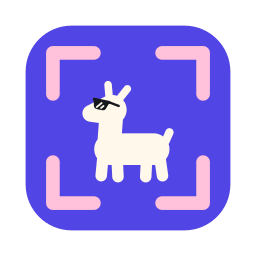
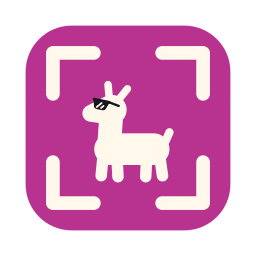
Sync website from Forgejo
Mirrored from 5ef5cc529b7d166672b5be29c3a5ff7c8f926042.

diff --git a/webfront/style.css b/webfront/style.css
@@ -1,6 +1,6 @@
 /* ShotLama website. Two materials, as in the app: veil (graphite glass,
    always dark) for everything that sits over a screen, and Meridian islands
-   on a graphite ground for the rest. One iris accent marks intent; the pink
+   on a graphite ground for the rest. One magenta accent marks intent; the ivory
    crop corners come from the app icon. Colours are the ShotLama brand of
    meridian_ui and docs/design-system/tokens. The ivory Lama only sits on the
    brand ground (stage, privacy island, download island). */
@@ -30,21 +30,21 @@
   --ink-faint: #8F8FA0;
   --line: #DFDFE7;
   --line-strong: #C9C9D4;
-  --accent: #5145E5;
-  --accent-hover: #4338D0;
+  --accent: #B8338F;
+  --accent-hover: #A02B7C;
   --on-accent: #FFFFFF;
-  --accent-soft: #ECEBFF;
-  --accent-ink: #4A3ED6;
-  --focus: #5145E5;
+  --accent-soft: #FBE4F0;
+  --accent-ink: #A72A82;
+  --focus: #B8338F;
   --success: #1F7A45;
-  --brand: #16133A;
-  --brand-deep: #0C0A24;
+  --brand: #4D253F;
+  --brand-deep: #180A13;
   --brand-ink: #F4F4F8;
-  --brand-muted: #B9B6DA;
-  --brand-accent: #8F88FF;
-  --brand-accent-ink: #B0ABFF;
+  --brand-muted: #E3C3D6;
+  --brand-accent: #E977BB;
+  --brand-accent-ink: #EFA7D2;
   --brand-line: rgba(244, 244, 248, 0.14);
-  --prop: #FFC2DA;
+  --prop: #FFF8EB;
   --veil-fill: rgba(22, 22, 30, 0.84);
   --veil-fill-opaque: #1C1C24;
   --veil-edge: rgba(255, 255, 255, 0.12);
@@ -86,14 +86,14 @@
     --ink-faint: #666679;
     --line: #262630;
     --line-strong: #34343F;
-    --accent: #8F88FF;
-    --accent-hover: #A49EFF;
-    --on-accent: #0C0A24;
-    --accent-soft: #25224F;
-    --accent-ink: #B0ABFF;
-    --focus: #B0ABFF;
+    --accent: #E977BB;
+    --accent-hover: #EC8BC5;
+    --on-accent: #180A13;
+    --accent-soft: #412235;
+    --accent-ink: #EFA7D2;
+    --focus: #EFA7D2;
     --success: #5CD08A;
-    --brand: #1B1748;
+    --brand: #562D47;
     --shadow-pane: 0 0 0 1px rgba(255, 255, 255, 0.05), 0 1px 2px rgba(0, 0, 0, 0.4);
     --shadow-float: 0 0 0 1px rgba(255, 255, 255, 0.07), 0 20px 48px -16px rgba(0, 0, 0, 0.75);
   }
@@ -154,8 +154,8 @@ code, .mono, pre, kbd { font-family: var(--font-mono); font-variant-numeric: tab
   transition: background-color 160ms var(--ease), transform 160ms var(--ease), box-shadow 160ms var(--ease);
 }
 .button:active { transform: translateY(1px) scale(0.99); }
-.button.primary { background: var(--brand-accent); color: var(--brand-deep); box-shadow: 0 10px 30px -10px rgba(143, 136, 255, 0.7); }
-.button.primary:hover { background: #A49EFF; }
+.button.primary { background: var(--brand-accent); color: var(--brand-deep); box-shadow: 0 10px 30px -10px rgba(233, 119, 187, 0.7); }
+.button.primary:hover { background: #EC8BC5; }
 .button.ghost { color: var(--brand-ink); box-shadow: inset 0 0 0 1px var(--brand-line); }
 .button.ghost:hover { background: rgba(255, 255, 255, 0.07); }
 .button.veil {
@@ -186,8 +186,8 @@ code, .mono, pre, kbd { font-family: var(--font-mono); font-variant-numeric: tab
   color: var(--ink-muted); font: 500 12.5px/1 var(--font-mono); text-decoration: none;
   box-shadow: inset 0 0 0 1px var(--line);
 }
-.pulse { width: 7px; height: 7px; border-radius: 50%; background: var(--accent); box-shadow: 0 0 0 0 rgba(81, 69, 229, 0.5); animation: pulse 2.4s var(--ease) infinite; }
-@keyframes pulse { 70% { box-shadow: 0 0 0 7px rgba(81, 69, 229, 0); } 100% { box-shadow: 0 0 0 0 rgba(81, 69, 229, 0); } }
+.pulse { width: 7px; height: 7px; border-radius: 50%; background: var(--accent); box-shadow: 0 0 0 0 rgba(184, 51, 143, 0.5); animation: pulse 2.4s var(--ease) infinite; }
+@keyframes pulse { 70% { box-shadow: 0 0 0 7px rgba(184, 51, 143, 0); } 100% { box-shadow: 0 0 0 0 rgba(184, 51, 143, 0); } }
 
 /* Hero stage: the brand ground, lit like the feature graphic. */
 .hero { padding: 20px max(16px, calc((100% - 1320px) / 2)) 0; }
@@ -198,7 +198,7 @@ code, .mono, pre, kbd { font-family: var(--font-mono); font-variant-numeric: tab
   background: var(--brand-deep);
   color: var(--brand-ink);
   touch-action: pan-y;
-  box-shadow: 0 30px 80px -40px rgba(22, 19, 58, 0.8);
+  box-shadow: 0 30px 80px -40px rgba(24, 10, 19, 0.8);
 }
 .stage.is-capturing { cursor: crosshair; user-select: none; -webkit-user-select: none; }
 .stage-content {
@@ -206,15 +206,15 @@ code, .mono, pre, kbd { font-family: var(--font-mono); font-variant-numeric: tab
   display: grid; grid-template-columns: minmax(0, 1.05fr) minmax(0, 1fr); align-items: center; gap: 24px;
   padding: 72px clamp(28px, 6vw, 88px) 104px;
   background:
-    radial-gradient(ellipse 60% 70% at 72% 42%, rgba(143, 136, 255, 0.42), transparent 70%),
-    radial-gradient(ellipse 45% 50% at 96% 108%, rgba(255, 194, 218, 0.20), transparent 70%),
-    radial-gradient(ellipse 50% 60% at 0% 0%, rgba(81, 69, 229, 0.30), transparent 70%),
-    linear-gradient(135deg, #1C1850 0%, var(--brand) 45%, var(--brand-deep) 100%);
+    radial-gradient(ellipse 60% 70% at 72% 42%, rgba(233, 119, 187, 0.42), transparent 70%),
+    radial-gradient(ellipse 45% 50% at 96% 108%, rgba(255, 248, 235, 0.20), transparent 70%),
+    radial-gradient(ellipse 50% 60% at 0% 0%, rgba(184, 51, 143, 0.30), transparent 70%),
+    linear-gradient(135deg, #5E2A4E 0%, var(--brand) 45%, var(--brand-deep) 100%);
 }
 .sky { position: absolute; inset: 0; pointer-events: none; }
 .sky::before {
   content: ""; position: absolute; inset: 0;
-  background-image: linear-gradient(rgba(176, 171, 255, 0.05) 1px, transparent 1px), linear-gradient(90deg, rgba(176, 171, 255, 0.05) 1px, transparent 1px);
+  background-image: linear-gradient(rgba(239, 167, 210, 0.05) 1px, transparent 1px), linear-gradient(90deg, rgba(239, 167, 210, 0.05) 1px, transparent 1px);
   background-size: 48px 48px;
   -webkit-mask: radial-gradient(ellipse at 70% 45%, #000 20%, transparent 75%);
   mask: radial-gradient(ellipse at 70% 45%, #000 20%, transparent 75%);
@@ -243,7 +243,7 @@ code, .mono, pre, kbd { font-family: var(--font-mono); font-variant-numeric: tab
 .hero-scene { position: relative; display: grid; place-items: center; height: 100%; min-height: 380px; }
 .glow {
   position: absolute; width: 70%; aspect-ratio: 1; border-radius: 50%;
-  background: radial-gradient(circle, rgba(143, 136, 255, 0.35), transparent 65%);
+  background: radial-gradient(circle, rgba(233, 119, 187, 0.35), transparent 65%);
   filter: blur(10px);
 }
 .crop-frame { position: relative; width: clamp(240px, 27vw, 360px); aspect-ratio: 1; }
@@ -317,10 +317,10 @@ code, .mono, pre, kbd { font-family: var(--font-mono); font-variant-numeric: tab
 .lens::after {
   content: ""; position: absolute; inset: 0; border-radius: inherit;
   background:
-    linear-gradient(#B0ABFF, #B0ABFF) 62px 62px / 8px 1.5px no-repeat,
-    linear-gradient(#B0ABFF, #B0ABFF) 62px 68.5px / 8px 1.5px no-repeat,
-    linear-gradient(#B0ABFF, #B0ABFF) 62px 62px / 1.5px 8px no-repeat,
-    linear-gradient(#B0ABFF, #B0ABFF) 68.5px 62px / 1.5px 8px no-repeat,
+    linear-gradient(#EFA7D2, #EFA7D2) 62px 62px / 8px 1.5px no-repeat,
+    linear-gradient(#EFA7D2, #EFA7D2) 62px 68.5px / 8px 1.5px no-repeat,
+    linear-gradient(#EFA7D2, #EFA7D2) 62px 62px / 1.5px 8px no-repeat,
+    linear-gradient(#EFA7D2, #EFA7D2) 68.5px 62px / 1.5px 8px no-repeat,
     repeating-linear-gradient(90deg, rgba(255, 255, 255, 0.10) 0 1px, transparent 1px 8px) 2px 0,
     repeating-linear-gradient(rgba(255, 255, 255, 0.10) 0 1px, transparent 1px 8px) 0 2px;
   box-shadow: inset 0 0 0 1px var(--veil-edge);
@@ -333,10 +333,10 @@ code, .mono, pre, kbd { font-family: var(--font-mono); font-variant-numeric: tab
 }
 .has-selection .capture-bar { display: flex; }
 .capture-bar .seg { display: inline-flex; align-items: center; gap: 6px; height: 32px; padding: 0 10px; border-radius: 12px; color: var(--veil-ink-muted); }
-.capture-bar .seg.primary { background: #8F88FF; color: #0C0A24; font-weight: 600; }
+.capture-bar .seg.primary { background: #E977BB; color: #180A13; font-weight: 600; }
 .capture-bar .icon { width: 15px; height: 15px; }
 .capture-bar .rule { width: 1px; height: 18px; margin: 0 4px; background: var(--veil-edge); }
-.capture-bar kbd { padding: 1px 5px; border-radius: 5px; font-size: 11px; background: rgba(12, 10, 36, 0.14); }
+.capture-bar kbd { padding: 1px 5px; border-radius: 5px; font-size: 11px; background: rgba(24, 10, 19, 0.14); }
 .flash { position: absolute; inset: 0; background: #FFFFFF; opacity: 0; }
 .flash.go { animation: flash 240ms var(--ease); }
 @keyframes flash { 0% { opacity: 0.55; } 100% { opacity: 0; } }
@@ -358,7 +358,7 @@ code, .mono, pre, kbd { font-family: var(--font-mono); font-variant-numeric: tab
 .qa-card.is-entering { opacity: 0; }
 .qa-card.is-leaving { opacity: 0; transform: translateX(calc(100% + 28px)); transition-timing-function: var(--ease); }
 .qa-frame { position: relative; padding: 6px; border-radius: var(--radius-xl); }
-.qa-card:focus-visible .qa-frame { box-shadow: 0 0 0 2px #B0ABFF, var(--veil-shadow); }
+.qa-card:focus-visible .qa-frame { box-shadow: 0 0 0 2px #EFA7D2, var(--veil-shadow); }
 .qa-thumb { position: relative; overflow: hidden; border-radius: var(--radius-md); background: var(--veil-fill-opaque); }
 .qa-thumb::after { content: ""; position: absolute; inset: 0; border-radius: inherit; box-shadow: inset 0 0 0 1px var(--veil-edge); pointer-events: none; }
 .qa-thumb .snapshot { position: absolute; left: 0; top: 0; transform-origin: 0 0; }
@@ -373,7 +373,7 @@ code, .mono, pre, kbd { font-family: var(--font-mono); font-variant-numeric: tab
   box-shadow: inset 0 0 0 1px var(--veil-edge), 0 4px 12px rgba(0, 0, 0, 0.3);
   -webkit-backdrop-filter: blur(10px); backdrop-filter: blur(10px);
 }
-.qa-pill:hover, .qa-pill.done { background: #8F88FF; color: #0C0A24; }
+.qa-pill:hover, .qa-pill.done { background: #E977BB; color: #180A13; }
 .qa-corner {
   position: absolute; display: grid; place-items: center; width: 26px; height: 26px; padding: 0; border: 0; border-radius: 50%;
   background: var(--veil-fill-opaque); color: var(--veil-ink); cursor: pointer; opacity: 0;
@@ -639,8 +639,8 @@ code, .mono, pre, kbd { font-family: var(--font-mono); font-variant-numeric: tab
   display: grid; grid-template-columns: minmax(0, 1.2fr) minmax(0, 1fr); gap: 40px; align-items: center;
   padding: clamp(36px, 6vw, 72px); border-radius: 28px; color: var(--brand-ink);
   background:
-    radial-gradient(ellipse 60% 80% at 85% 60%, rgba(143, 136, 255, 0.32), transparent 70%),
-    linear-gradient(135deg, #1C1850, var(--brand) 50%, var(--brand-deep));
+    radial-gradient(ellipse 60% 80% at 85% 60%, rgba(233, 119, 187, 0.32), transparent 70%),
+    linear-gradient(135deg, #5E2A4E, var(--brand) 50%, var(--brand-deep));
 }
 .privacy h2 { color: var(--brand-ink); }
 .privacy p { color: var(--brand-muted); font-size: 17px; }
@@ -649,7 +649,7 @@ code, .mono, pre, kbd { font-family: var(--font-mono); font-variant-numeric: tab
 .checks li { position: relative; padding-left: 32px; }
 .checks li::before {
   content: ""; position: absolute; left: 0; top: 3px; width: 20px; height: 20px; border-radius: 50%;
-  background: rgba(143, 136, 255, 0.22);
+  background: rgba(233, 119, 187, 0.22);
 }
 .checks li::after {
   content: ""; position: absolute; left: 4px; top: 7px; width: 12px; height: 12px; background: var(--brand-accent-ink);
@@ -685,8 +685,8 @@ code, .mono, pre, kbd { font-family: var(--font-mono); font-variant-numeric: tab
   display: grid; grid-template-columns: auto minmax(0, 1fr); gap: clamp(20px, 4vw, 48px); align-items: center;
   margin-bottom: 18px; padding: clamp(28px, 4vw, 48px); border-radius: 28px; color: var(--brand-ink);
   background:
-    radial-gradient(ellipse 40% 90% at 10% 60%, rgba(143, 136, 255, 0.38), transparent 70%),
-    linear-gradient(135deg, #1C1850, var(--brand) 55%, var(--brand-deep));
+    radial-gradient(ellipse 40% 90% at 10% 60%, rgba(233, 119, 187, 0.38), transparent 70%),
+    linear-gradient(135deg, #5E2A4E, var(--brand) 55%, var(--brand-deep));
 }
 .download-stage h2 { color: var(--brand-ink); margin-bottom: 10px; }
 .download-stage p { margin: 0; color: var(--brand-muted); max-width: 620px; }

diff --git a/webfront/index.html b/webfront/index.html
@@ -50,7 +50,7 @@
       <div id="stage" class="stage">
         <div id="stage-content" class="stage-content">
           <div class="sky" aria-hidden="true">
-            <svg class="stars" viewBox="0 0 1200 680" preserveAspectRatio="xMidYMid slice" focusable="false"><g fill="#E9E7FF"><circle cx="1069" cy="424" r="0.8" opacity="0.49"/><circle cx="593" cy="178" r="1.1" opacity="0.40"/><circle cx="569" cy="112" r="0.6" opacity="0.24"/><circle cx="859" cy="258" r="1.1" opacity="0.43"/><circle cx="822" cy="140" r="1.1" opacity="0.17"/><circle cx="402" cy="154" r="1.1" opacity="0.34"/><circle cx="430" cy="338" r="1.1" opacity="0.19"/><circle cx="141" cy="316" r="0.8" opacity="0.18"/><circle cx="970" cy="655" r="1.1" opacity="0.20"/><circle cx="836" cy="518" r="0.8" opacity="0.16"/><circle cx="762" cy="585" r="0.6" opacity="0.46"/><circle cx="726" cy="51" r="0.8" opacity="0.28"/><circle cx="10" cy="415" r="0.6" opacity="0.19"/><circle cx="437" cy="254" r="1.1" opacity="0.49"/><circle cx="119" cy="273" r="0.6" opacity="0.43"/><circle cx="394" cy="618" r="1.1" opacity="0.34"/><circle cx="265" cy="256" r="1.1" opacity="0.26"/><circle cx="712" cy="326" r="0.6" opacity="0.27"/><circle cx="1177" cy="592" r="0.8" opacity="0.27"/><circle cx="103" cy="356" r="0.6" opacity="0.31"/><circle cx="558" cy="485" r="1.1" opacity="0.17"/><circle cx="406" cy="317" r="0.8" opacity="0.18"/><circle cx="993" cy="21" r="1.1" opacity="0.35"/><circle cx="283" cy="412" r="0.8" opacity="0.41"/><circle cx="801" cy="187" r="0.6" opacity="0.50"/><circle cx="308" cy="113" r="0.6" opacity="0.17"/><circle cx="1099" cy="312" r="0.8" opacity="0.43"/><circle cx="101" cy="165" r="0.8" opacity="0.18"/><circle cx="638" cy="256" r="1.1" opacity="0.50"/><circle cx="983" cy="76" r="1.1" opacity="0.18"/><circle cx="495" cy="230" r="1.1" opacity="0.49"/><circle cx="1179" cy="167" r="0.8" opacity="0.17"/><circle cx="996" cy="600" r="0.8" opacity="0.44"/><circle cx="455" cy="567" r="0.8" opacity="0.33"/><circle cx="911" cy="79" r="0.8" opacity="0.41"/><circle cx="469" cy="494" r="0.8" opacity="0.44"/><circle cx="745" cy="612" r="0.6" opacity="0.49"/><circle cx="1183" cy="581" r="1.1" opacity="0.30"/><circle cx="673" cy="592" r="0.6" opacity="0.48"/><circle cx="1138" cy="236" r="1.1" opacity="0.26"/><circle cx="352" cy="216" r="0.8" opacity="0.30"/><circle cx="919" cy="605" r="0.6" opacity="0.33"/><circle cx="1071" cy="10" r="0.6" opacity="0.48"/><circle cx="1133" cy="183" r="0.8" opacity="0.31"/><circle cx="1032" cy="140" r="1.1" opacity="0.34"/><circle cx="927" cy="12" r="0.8" opacity="0.24"/><circle cx="16" cy="478" r="0.8" opacity="0.41"/><circle cx="432" cy="53" r="0.8" opacity="0.18"/><circle cx="31" cy="28" r="0.6" opacity="0.32"/><circle cx="617" cy="626" r="0.6" opacity="0.50"/><circle cx="202" cy="26" r="0.8" opacity="0.34"/><circle cx="454" cy="664" r="0.6" opacity="0.45"/><circle cx="251" cy="438" r="0.6" opacity="0.41"/><circle cx="122" cy="192" r="1.1" opacity="0.24"/><circle cx="730" cy="355" r="1.1" opacity="0.35"/><circle cx="853" cy="415" r="0.6" opacity="0.33"/><circle cx="694" cy="82" r="1.1" opacity="0.44"/><circle cx="68" cy="641" r="1.1" opacity="0.45"/><circle cx="666" cy="329" r="0.6" opacity="0.27"/><circle cx="1102" cy="249" r="0.8" opacity="0.44"/><circle cx="906" cy="127" r="0.8" opacity="0.24"/><circle cx="861" cy="317" r="1.1" opacity="0.22"/><circle cx="748" cy="131" r="0.6" opacity="0.33"/><circle cx="1171" cy="155" r="0.8" opacity="0.18"/><circle cx="896" cy="540" r="0.8" opacity="0.42"/><circle cx="315" cy="679" r="1.1" opacity="0.20"/><circle cx="1095" cy="324" r="0.8" opacity="0.43"/><circle cx="576" cy="416" r="0.6" opacity="0.37"/><circle cx="345" cy="154" r="0.6" opacity="0.30"/><circle cx="658" cy="553" r="0.8" opacity="0.41"/><circle cx="263" cy="295" r="0.6" opacity="0.32"/><circle cx="1028" cy="195" r="0.8" opacity="0.15"/><circle cx="250" cy="343" r="0.8" opacity="0.18"/><circle cx="177" cy="527" r="0.8" opacity="0.24"/><circle cx="144" cy="303" r="0.6" opacity="0.25"/><circle cx="947" cy="329" r="0.6" opacity="0.49"/><circle cx="544" cy="315" r="0.8" opacity="0.45"/><circle cx="1177" cy="526" r="1.1" opacity="0.20"/><circle cx="213" cy="669" r="1.1" opacity="0.42"/><circle cx="527" cy="242" r="0.6" opacity="0.22"/><circle cx="756" cy="446" r="0.8" opacity="0.24"/><circle cx="161" cy="315" r="0.8" opacity="0.49"/><circle cx="416" cy="323" r="0.6" opacity="0.16"/><circle cx="1165" cy="596" r="0.6" opacity="0.27"/><circle cx="1007" cy="413" r="0.8" opacity="0.36"/><circle cx="619" cy="460" r="0.6" opacity="0.41"/><circle cx="436" cy="193" r="0.6" opacity="0.45"/><circle cx="401" cy="235" r="1.1" opacity="0.44"/><circle cx="146" cy="466" r="1.1" opacity="0.22"/><circle cx="1025" cy="128" r="1.1" opacity="0.32"/><circle cx="904" cy="661" r="0.6" opacity="0.20"/><circle cx="892" cy="403" r="0.6" opacity="0.39"/><circle cx="775" cy="497" r="0.8" opacity="0.45"/><circle cx="489" cy="334" r="0.8" opacity="0.48"/><circle cx="355" cy="504" r="0.6" opacity="0.32"/><circle cx="832" cy="666" r="0.8" opacity="0.18"/><circle cx="376" cy="508" r="0.6" opacity="0.24"/><circle cx="264" cy="203" r="0.6" opacity="0.24"/><circle cx="73" cy="127" r="0.8" opacity="0.30"/><circle cx="179" cy="303" r="1.1" opacity="0.38"/><circle cx="1088" cy="318" r="1.1" opacity="0.28"/><circle cx="539" cy="576" r="0.6" opacity="0.42"/><circle cx="63" cy="549" r="0.8" opacity="0.34"/><circle cx="146" cy="56" r="0.8" opacity="0.25"/><circle cx="719" cy="493" r="0.6" opacity="0.42"/><circle cx="220" cy="44" r="0.8" opacity="0.28"/><circle cx="914" cy="337" r="0.8" opacity="0.28"/><circle cx="449" cy="8" r="1.1" opacity="0.43"/><circle cx="232" cy="356" r="1.1" opacity="0.43"/><circle cx="782" cy="117" r="1.1" opacity="0.35"/></g></svg>
+            <svg class="stars" viewBox="0 0 1200 680" preserveAspectRatio="xMidYMid slice" focusable="false"><g fill="#FDF1F8"><circle cx="1069" cy="424" r="0.8" opacity="0.49"/><circle cx="593" cy="178" r="1.1" opacity="0.40"/><circle cx="569" cy="112" r="0.6" opacity="0.24"/><circle cx="859" cy="258" r="1.1" opacity="0.43"/><circle cx="822" cy="140" r="1.1" opacity="0.17"/><circle cx="402" cy="154" r="1.1" opacity="0.34"/><circle cx="430" cy="338" r="1.1" opacity="0.19"/><circle cx="141" cy="316" r="0.8" opacity="0.18"/><circle cx="970" cy="655" r="1.1" opacity="0.20"/><circle cx="836" cy="518" r="0.8" opacity="0.16"/><circle cx="762" cy="585" r="0.6" opacity="0.46"/><circle cx="726" cy="51" r="0.8" opacity="0.28"/><circle cx="10" cy="415" r="0.6" opacity="0.19"/><circle cx="437" cy="254" r="1.1" opacity="0.49"/><circle cx="119" cy="273" r="0.6" opacity="0.43"/><circle cx="394" cy="618" r="1.1" opacity="0.34"/><circle cx="265" cy="256" r="1.1" opacity="0.26"/><circle cx="712" cy="326" r="0.6" opacity="0.27"/><circle cx="1177" cy="592" r="0.8" opacity="0.27"/><circle cx="103" cy="356" r="0.6" opacity="0.31"/><circle cx="558" cy="485" r="1.1" opacity="0.17"/><circle cx="406" cy="317" r="0.8" opacity="0.18"/><circle cx="993" cy="21" r="1.1" opacity="0.35"/><circle cx="283" cy="412" r="0.8" opacity="0.41"/><circle cx="801" cy="187" r="0.6" opacity="0.50"/><circle cx="308" cy="113" r="0.6" opacity="0.17"/><circle cx="1099" cy="312" r="0.8" opacity="0.43"/><circle cx="101" cy="165" r="0.8" opacity="0.18"/><circle cx="638" cy="256" r="1.1" opacity="0.50"/><circle cx="983" cy="76" r="1.1" opacity="0.18"/><circle cx="495" cy="230" r="1.1" opacity="0.49"/><circle cx="1179" cy="167" r="0.8" opacity="0.17"/><circle cx="996" cy="600" r="0.8" opacity="0.44"/><circle cx="455" cy="567" r="0.8" opacity="0.33"/><circle cx="911" cy="79" r="0.8" opacity="0.41"/><circle cx="469" cy="494" r="0.8" opacity="0.44"/><circle cx="745" cy="612" r="0.6" opacity="0.49"/><circle cx="1183" cy="581" r="1.1" opacity="0.30"/><circle cx="673" cy="592" r="0.6" opacity="0.48"/><circle cx="1138" cy="236" r="1.1" opacity="0.26"/><circle cx="352" cy="216" r="0.8" opacity="0.30"/><circle cx="919" cy="605" r="0.6" opacity="0.33"/><circle cx="1071" cy="10" r="0.6" opacity="0.48"/><circle cx="1133" cy="183" r="0.8" opacity="0.31"/><circle cx="1032" cy="140" r="1.1" opacity="0.34"/><circle cx="927" cy="12" r="0.8" opacity="0.24"/><circle cx="16" cy="478" r="0.8" opacity="0.41"/><circle cx="432" cy="53" r="0.8" opacity="0.18"/><circle cx="31" cy="28" r="0.6" opacity="0.32"/><circle cx="617" cy="626" r="0.6" opacity="0.50"/><circle cx="202" cy="26" r="0.8" opacity="0.34"/><circle cx="454" cy="664" r="0.6" opacity="0.45"/><circle cx="251" cy="438" r="0.6" opacity="0.41"/><circle cx="122" cy="192" r="1.1" opacity="0.24"/><circle cx="730" cy="355" r="1.1" opacity="0.35"/><circle cx="853" cy="415" r="0.6" opacity="0.33"/><circle cx="694" cy="82" r="1.1" opacity="0.44"/><circle cx="68" cy="641" r="1.1" opacity="0.45"/><circle cx="666" cy="329" r="0.6" opacity="0.27"/><circle cx="1102" cy="249" r="0.8" opacity="0.44"/><circle cx="906" cy="127" r="0.8" opacity="0.24"/><circle cx="861" cy="317" r="1.1" opacity="0.22"/><circle cx="748" cy="131" r="0.6" opacity="0.33"/><circle cx="1171" cy="155" r="0.8" opacity="0.18"/><circle cx="896" cy="540" r="0.8" opacity="0.42"/><circle cx="315" cy="679" r="1.1" opacity="0.20"/><circle cx="1095" cy="324" r="0.8" opacity="0.43"/><circle cx="576" cy="416" r="0.6" opacity="0.37"/><circle cx="345" cy="154" r="0.6" opacity="0.30"/><circle cx="658" cy="553" r="0.8" opacity="0.41"/><circle cx="263" cy="295" r="0.6" opacity="0.32"/><circle cx="1028" cy="195" r="0.8" opacity="0.15"/><circle cx="250" cy="343" r="0.8" opacity="0.18"/><circle cx="177" cy="527" r="0.8" opacity="0.24"/><circle cx="144" cy="303" r="0.6" opacity="0.25"/><circle cx="947" cy="329" r="0.6" opacity="0.49"/><circle cx="544" cy="315" r="0.8" opacity="0.45"/><circle cx="1177" cy="526" r="1.1" opacity="0.20"/><circle cx="213" cy="669" r="1.1" opacity="0.42"/><circle cx="527" cy="242" r="0.6" opacity="0.22"/><circle cx="756" cy="446" r="0.8" opacity="0.24"/><circle cx="161" cy="315" r="0.8" opacity="0.49"/><circle cx="416" cy="323" r="0.6" opacity="0.16"/><circle cx="1165" cy="596" r="0.6" opacity="0.27"/><circle cx="1007" cy="413" r="0.8" opacity="0.36"/><circle cx="619" cy="460" r="0.6" opacity="0.41"/><circle cx="436" cy="193" r="0.6" opacity="0.45"/><circle cx="401" cy="235" r="1.1" opacity="0.44"/><circle cx="146" cy="466" r="1.1" opacity="0.22"/><circle cx="1025" cy="128" r="1.1" opacity="0.32"/><circle cx="904" cy="661" r="0.6" opacity="0.20"/><circle cx="892" cy="403" r="0.6" opacity="0.39"/><circle cx="775" cy="497" r="0.8" opacity="0.45"/><circle cx="489" cy="334" r="0.8" opacity="0.48"/><circle cx="355" cy="504" r="0.6" opacity="0.32"/><circle cx="832" cy="666" r="0.8" opacity="0.18"/><circle cx="376" cy="508" r="0.6" opacity="0.24"/><circle cx="264" cy="203" r="0.6" opacity="0.24"/><circle cx="73" cy="127" r="0.8" opacity="0.30"/><circle cx="179" cy="303" r="1.1" opacity="0.38"/><circle cx="1088" cy="318" r="1.1" opacity="0.28"/><circle cx="539" cy="576" r="0.6" opacity="0.42"/><circle cx="63" cy="549" r="0.8" opacity="0.34"/><circle cx="146" cy="56" r="0.8" opacity="0.25"/><circle cx="719" cy="493" r="0.6" opacity="0.42"/><circle cx="220" cy="44" r="0.8" opacity="0.28"/><circle cx="914" cy="337" r="0.8" opacity="0.28"/><circle cx="449" cy="8" r="1.1" opacity="0.43"/><circle cx="232" cy="356" r="1.1" opacity="0.43"/><circle cx="782" cy="117" r="1.1" opacity="0.35"/></g></svg>
           </div>
           <div class="hero-copy">
             <p class="eyebrow">Screenshots for macOS, Windows and Linux</p>

diff --git a/webfront/assets/lama/lama-antics.js b/webfront/assets/lama/lama-antics.js
@@ -10,7 +10,7 @@
 
      const antics = LamaAntics.attach(lamaElement, {
        base: "assets/lama/",        // folder holding the pose SVGs
-       colors: ["#4C82FB", ...],    // confetti and hearts
+       colors: ["#24C27D", ...],    // confetti and hearts
        idle: { name: (api) => ... },// optional site antics
        taps: { name: (api) => ... },
      });

diff --git a/webfront/site.js b/webfront/site.js
@@ -34,7 +34,7 @@
     if (window.LamaAntics) {
       antics = LamaAntics.attach(lama, {
         base: "assets/lama/",
-        colors: ["#8F88FF", "#FFC2DA", "#B0ABFF", "#FFF8EB"],
+        colors: ["#E977BB", "#B8338F", "#EFA7D2", "#FFF8EB"],
         taps: {
           capture: async (antic) => {
             await antic.move("hop");
